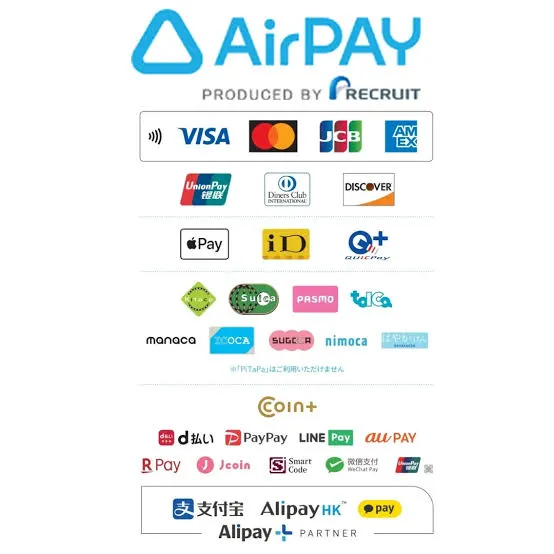
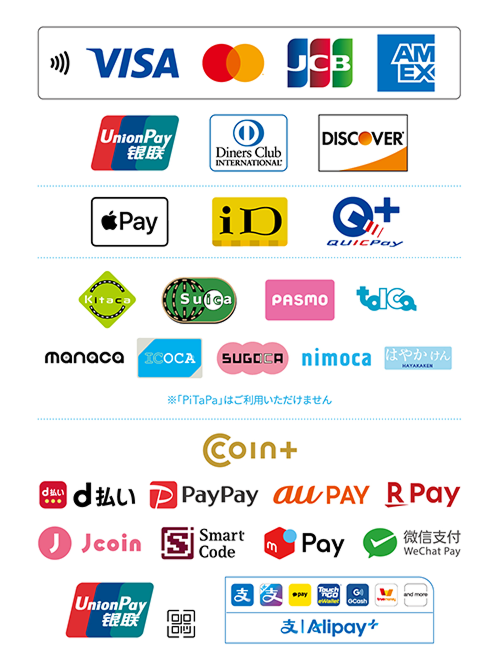
決済画像を差し替え、支払い・予約まわりの文言を整理
- 決済一覧の画像を新しいものに差し替え(WebP可逆圧縮)。旧画像は縦長の元画像を
  554x554の正方形指定で表示していたため潰れていた。500x663に修正
- altを新しい画像の内容に合わせて更新。LINE Pay(サービス終了済み)を削除し、
  COIN+/Jcoin/Smart Code/メルペイとPiTaPa利用不可の注記を追加
- アクセス欄の「お支払い」を削除。下の「お支払いに使えるもの」と重複していたため
- 支払い方法の説明文を修正。英語版のみ、海外からの旅行者向けに
  「Overseas cards are accepted.」を残している(意図的な日英の差)
- カウンセリングの説明文を修正
- ご予約セクションの電話予約に関する注記を削除(FAQの同内容は残す)

Changed region(s): [[0.06, 0.0, 0.93, 0.9819]]

diff --git a/index.html b/index.html
@@ -330,7 +330,7 @@
     </li>
     <li class="flow__step">
       <h3><span lang="ja">カウンセリング</span><span lang="en">Consultation</span></h3>
-      <p><span lang="ja">気になるところ、強さの好みを伺います。話したくない日は、静かに受けていただいて大丈夫です。</span><span lang="en">We ask where it hurts and how firm you like the pressure. If you would rather not talk, that is completely fine.</span></p>
+      <p><span lang="ja">気になるところ、強さの好みを伺います。ご希望に合わせて施術いたしますので、気兼ねなくお伝えください。</span><span lang="en">We ask where it hurts and how firm you like the pressure. We tailor the treatment to what you want, so please don’t hesitate to tell us.</span></p>
     </li>
     <li class="flow__step">
       <h3><span lang="ja">施術</span><span lang="en">Treatment</span></h3>
@@ -435,11 +435,6 @@
           <span lang="en">10:00–22:00, irregular holidays</span>
         </dd>
 
-        <dt><span lang="ja">お支払い</span><span lang="en">Payment</span></dt>
-        <dd>
-          <span lang="ja">現金のほか、各種クレジットカード・電子マネー・QRコード決済に対応しています(Airペイ)。</span>
-          <span lang="en">Cash, plus credit cards, e-money and QR code payments (via AirPAY).</span>
-        </dd>
       </dl>
     </div>
 
@@ -458,15 +453,16 @@
       <span lang="en">Ways to pay</span>
     </h3>
     <p class="payments__note">
-      <span lang="ja">現金のほか、以下の決済に対応しています。海外のカードもご利用いただけます。</span>
-      <span lang="en">Cash, plus everything below. Overseas cards are accepted.</span>
+      <span lang="ja">現金のほか、各種クレジットカード・電子マネー・QRコード決済に対応しています。</span>
+      <!-- 日本語版にはない一文。海外からの旅行者に「自分のカードが使えるか」を伝えるため、英語版だけ残している -->
+      <span lang="en">Cash, plus credit cards, e-money and QR code payments. Overseas cards are accepted.</span>
     </p>
-    <img class="payments__chart" src="assets/img/pay.webp" width="554" height="554"
+    <img class="payments__chart" src="assets/img/pay.webp" width="500" height="663"
          loading="lazy" decoding="async" lang="ja"
-         alt="Airペイ対応の決済一覧。VISA、Mastercard、JCB、American Express、銀聯、Diners Club、Discover、Apple Pay、iD、QUICPay、Suicaなどの交通系IC、PayPay、d払い、LINE Pay、au PAY、楽天ペイ、WeChat Pay、Alipay に対応。">
-    <img class="payments__chart" src="assets/img/pay.webp" width="554" height="554"
+         alt="Airペイ対応の決済一覧。VISA、Mastercard、JCB、American Express、銀聯、Diners Club、Discover、Apple Pay、iD、QUICPay、Kitaca・Suica・PASMO・TOICA・manaca・ICOCA・SUGOCA・nimoca・はやかけんの交通系IC(PiTaPaは利用不可)、COIN+、d払い、PayPay、au PAY、楽天ペイ、Jcoin、Smart Code、メルペイ、WeChat Pay、銀聯QR、Alipay に対応。">
+    <img class="payments__chart" src="assets/img/pay.webp" width="500" height="663"
          loading="lazy" decoding="async" lang="en"
-         alt="Payments accepted via AirPAY: VISA, Mastercard, JCB, American Express, UnionPay, Diners Club, Discover, Apple Pay, iD, QUICPay, Japanese transit IC cards such as Suica, PayPay, d-barai, LINE Pay, au PAY, Rakuten Pay, WeChat Pay and Alipay.">
+         alt="Payments accepted via AirPAY: VISA, Mastercard, JCB, American Express, UnionPay, Diners Club, Discover, Apple Pay, iD, QUICPay, Japanese transit IC cards including Suica, PASMO and ICOCA (PiTaPa not accepted), COIN+, d-barai, PayPay, au PAY, Rakuten Pay, J-Coin, Smart Code, merpay, WeChat Pay, UnionPay QR and Alipay.">
   </div>
 </section>
 
@@ -494,11 +490,6 @@
   <p class="reserve__story">
     <span lang="ja">当日の空き状況は、<a href="https://www.instagram.com/socu_kishi/" target="_blank" rel="noopener">Instagramのストーリー</a>で毎日お知らせしています。</span>
     <span lang="en">Same-day availability is posted daily on our <a href="https://www.instagram.com/socu_kishi/" target="_blank" rel="noopener">Instagram stories</a>.</span>
-  </p>
-
-  <p class="note">
-    <span lang="ja">お電話でのご予約は承っておりません。施術中は電話に出られないため、LINEまたはInstagramからお願いいたします。</span>
-    <span lang="en">We do not take reservations by phone — we can’t answer during treatments. Please use LINE or Instagram.</span>
   </p>
 
   <!-- お問い合わせフォーム
